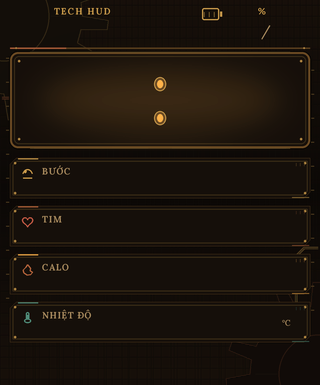
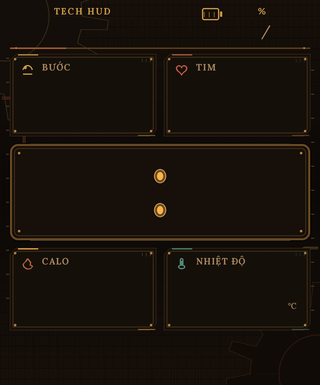
feat: đưa đồng hồ vào trung tâm, bố trí nội dung xung quanh
- Đặt khung đồng hồ DSEG7 tại tâm 320x385 (160, 192.5)
- Hai panel BƯỚC/TIM phía trên, hai panel CALO/NHIỆT ĐỘ phía dưới
- Cập nhật quầng sáng, dấu hai chấm và nền theo khung đồng hồ mới
- Thêm validator/test căn giữa và bố cục 2+2 quanh đồng hồ
- Giữ bỏ MỤC TIÊU và hỗ trợ nhiệt độ âm
- Chưa kiểm thử thiết bị thật: release ở kênh pre-release

diff --git a/scripts/generate_assets.py b/scripts/generate_assets.py
@@ -207,7 +207,8 @@ def draw_pipe(draw: ImageDraw.ImageDraw, points: list[tuple[float, float]], colo
 
 
 def draw_clock_frame(draw: ImageDraw.ImageDraw) -> None:
-    x, y, w, h = 10, 52, 300, 96
+    clock = LAYOUT["clock"]
+    x, y, w, h = clock["x"], clock["y"], clock["w"], clock["h"]
     panel = hex_rgb(COLORS["panel"])
     border = hex_rgb(COLORS["brass_dark"])
     brass = hex_rgb(COLORS["brass"])
@@ -285,24 +286,30 @@ def build_background() -> Image.Image:
     draw_clock_frame(draw)
 
     # amber lamp glow inside the clock window
+    clock = LAYOUT["clock"]
     glow, gdraw = new_layer(W, 150)
-    gdraw.ellipse([sc(24), sc(58), sc(W - 24), sc(142)], fill=amber + (40,))
+    gdraw.ellipse(
+        [
+            sc(clock["x"] + 14),
+            sc(clock["y"] + 6),
+            sc(clock["x"] + clock["w"] - 14),
+            sc(clock["y"] + clock["h"] - 6),
+        ],
+        fill=amber + (40,),
+    )
     glow = glow.filter(ImageFilter.GaussianBlur(sc(20)))
     image.alpha_composite(glow)
 
     # brass-rimmed amber colon lenses
-    for cy in (78, 112):
+    colon_x = clock["x"] + clock["w"] // 2
+    for cy in (clock["y"] + 26, clock["y"] + 60):
         draw.ellipse(
-            [sc(154), sc(cy - 1), sc(166), sc(cy + 13)],
+            [sc(colon_x - 6), sc(cy - 1), sc(colon_x + 6), sc(cy + 13)],
             fill=hex_rgb(COLORS["brass_dark"]) + (255,),
             outline=brass + (255,),
             width=sc(1),
         )
-        draw.ellipse([sc(157), sc(cy + 2), sc(163), sc(cy + 10)], fill=amber + (255,))
-
-    # brass rails under the clock
-    draw.line([(sc(34), sc(148)), (sc(148), sc(148))], fill=brass + (120,), width=sc(1))
-    draw.line([(sc(172), sc(148)), (sc(286), sc(148))], fill=brass + (120,), width=sc(1))
+        draw.ellipse([sc(colon_x - 3), sc(cy + 2), sc(colon_x + 3), sc(cy + 10)], fill=amber + (255,))
 
     # panels
     for panel in LAYOUT["panels"]:

diff --git a/scripts/validate_assets.py b/scripts/validate_assets.py
@@ -119,6 +119,24 @@ def main() -> int:
             ):
                 errors.append(f"labels overlap: {first[0]} and {second[0]}")
 
+    # ---- main clock and surrounding content ------------------------------------------
+    clock = layout.get("clock")
+    check(isinstance(clock, dict), "layout has no clock frame")
+    if isinstance(clock, dict):
+        check(abs(clock["x"] + clock["w"] / 2 - W / 2) <= 1, "clock is not horizontally centred")
+        check(abs(clock["y"] + clock["h"] / 2 - H / 2) <= 1, "clock is not vertically centred")
+        time_ids = {"hour_high", "hour_low", "minute_high", "minute_low"}
+        for widget in layout["widgets"]:
+            if widget["id"] not in time_ids:
+                continue
+            check(widget["x"] >= clock["x"], f"{widget['id']} leaves the clock frame on the left")
+            check(widget["y"] >= clock["y"], f"{widget['id']} leaves the clock frame at the top")
+            check(widget["x"] + widget["w"] <= clock["x"] + clock["w"], f"{widget['id']} leaves the clock frame on the right")
+            check(widget["y"] + widget["h"] <= clock["y"] + clock["h"], f"{widget['id']} leaves the clock frame at the bottom")
+        top = [panel for panel in layout["panels"] if panel["y"] + panel["h"] <= clock["y"]]
+        bottom = [panel for panel in layout["panels"] if panel["y"] >= clock["y"] + clock["h"]]
+        check(len(top) == 2 and len(bottom) == 2, "expected two panels above and two below the clock")
+
     # ---- rounded display safety ------------------------------------------------------
     radius = meta["corner_radius"]
     for panel in layout["panels"]:

diff --git a/scripts/package_release.py b/scripts/package_release.py
@@ -106,10 +106,10 @@ def write_notes(target: Path, version: str, prerelease: bool, record: dict, chec
 - Đồng hồ `HH:MM` dùng **DSEG7 Classic Bold** bảy đoạn màu amber trong khung đồng có đinh tán.
 - Nhãn và số liệu dùng **Lora** serif (OFL); Lora có đủ glyph tiếng Việt, DSEG7 chỉ dùng cho chữ số giờ:phút.
 - Các số bảy đoạn `1`/`4` được căn đáy chung với `0`/`8`, không bị lệch dòng.
-- Nền da/gunmetal, bánh răng đồng, ống dẫn và bốn dải panel viền brass.
+- Nền da/gunmetal, bánh răng đồng, ống dẫn; đồng hồ ở trung tâm, hai panel trên và hai panel dưới bao quanh.
 - Bố cục tối giản: bỏ footer tên thiết bị, mã phiên bản, nhãn PIN, đơn vị BPM/KCAL, panel trạng thái và chấm trạng thái trùng.
 - Tên thứ đầy đủ (CHỦ NHẬT … THỨ BẢY), ngày dạng `21/10`.
-- Bốn dải dữ liệu full-width: BƯỚC, TIM, CALO, NHIỆT ĐỘ; vùng số rộng hơn để không tràn.
+- Bốn panel dữ liệu quanh đồng hồ: **BƯỚC, TIM** phía trên; **CALO, NHIỆT ĐỘ** phía dưới; vùng số rộng hơn để không tràn.
 - Nhiệt độ 3 chữ số, hỗ trợ giá trị âm (`-5`, `-10`, `-20`); đơn vị `°C` canh giữa theo chiều dọc với giá trị.
 - Bỏ hoàn toàn vòng MỤC TIÊU, giá trị phần trăm và source `1021`; không còn cụm bánh răng/thanh đế phía dưới.
 - Toàn bộ nội dung nằm trong vùng an toàn của màn hình bo góc bán kính 82 px; không đặt chữ/số sát bốn góc.

diff --git a/tests/test_layout.py b/tests/test_layout.py
@@ -112,6 +112,28 @@ def test_goal_section_is_removed():
     assert "1021" not in {widget["source"] for widget in LAYOUT["widgets"]}
 
 
+def test_clock_is_centered_and_time_widgets_are_inside_it():
+    clock = LAYOUT["clock"]
+    assert abs(clock["x"] + clock["w"] / 2 - 160) <= 1
+    assert abs(clock["y"] + clock["h"] / 2 - 192.5) <= 1
+    time_ids = {"hour_high", "hour_low", "minute_high", "minute_low"}
+    for widget in LAYOUT["widgets"]:
+        if widget["id"] not in time_ids:
+            continue
+        assert widget["x"] >= clock["x"]
+        assert widget["y"] >= clock["y"]
+        assert widget["x"] + widget["w"] <= clock["x"] + clock["w"]
+        assert widget["y"] + widget["h"] <= clock["y"] + clock["h"]
+
+
+def test_two_panels_above_and_two_below_clock():
+    clock = LAYOUT["clock"]
+    top = [panel for panel in LAYOUT["panels"] if panel["y"] + panel["h"] <= clock["y"]]
+    bottom = [panel for panel in LAYOUT["panels"] if panel["y"] >= clock["y"] + clock["h"]]
+    assert {panel["id"] for panel in top} == {"steps", "heart"}
+    assert {panel["id"] for panel in bottom} == {"calories", "temp"}
+
+
 def test_content_fits_rounded_display():
     meta = LAYOUT["meta"]
     width, height = meta["canvas"]["w"], meta["canvas"]["h"]

diff --git a/README.md b/README.md
@@ -13,7 +13,7 @@ Mặt đồng hồ tuỳ chỉnh phong cách **steampunk / brass**, giao diện 
 Dự án tạo ra một mặt đồng hồ số thực thụ bằng compiler Gen2, không phải mockup:
 
 - Đồng hồ số `HH:MM` dùng **DSEG7 Classic Bold** bảy đoạn, màu amber, đặt trong khung đồng (brass) có đinh tán.
-- Bố cục steampunk: nền da/gunmetal, bánh răng đồng, ống dẫn và bốn dải panel viền brass.
+- Bố cục steampunk: nền da/gunmetal, bánh răng đồng, ống dẫn; đồng hồ ở trung tâm, hai panel trên và hai panel dưới bao quanh.
 - Nhãn và số liệu dùng **Lora** (serif, OFL) có đủ dấu tiếng Việt; số giờ:phút dùng DSEG7.
 - Bố cục tối giản: chỉ giữ dữ liệu cần thiết, không footer tên máy, không mã phiên bản, không nhãn đơn vị lặp, không panel trạng thái.
 - Nội dung được căn vào vùng an toàn của màn hình bo góc bán kính **82 px**; không đặt chữ/số sát bốn góc.
@@ -57,7 +57,7 @@ Dự án tạo ra một mặt đồng hồ số thực thụ bằng compiler Gen
 
 ### Vì sao không có ô KM?
 
-Danh sách data source cho `redmi_watch_5_active` trong Mi Create **không có** nguồn quãng đường. Định dạng này cũng không cho phép tính toán trên thiết bị. Dự án **không** hiển thị KM giả và không suy ra quãng đường từ số bước. Bố cục dùng bốn dải panel: **BƯỚC, TIM, CALO, NHIỆT ĐỘ**.
+Danh sách data source cho `redmi_watch_5_active` trong Mi Create **không có** nguồn quãng đường. Định dạng này cũng không cho phép tính toán trên thiết bị. Dự án **không** hiển thị KM giả và không suy ra quãng đường từ số bước. Bố cục đặt đồng hồ ở trung tâm, với bốn panel **BƯỚC, TIM, CALO, NHIỆT ĐỘ** bao quanh.
 
 ### Nguồn dữ liệu thực tế
 
@@ -123,7 +123,7 @@ python3 -m pytest -q
 ### Chỉ tạo preview và source package (không cần compiler)
 
 ```bash
-python3 scripts/package_release.py --version v1.1.2
+python3 scripts/package_release.py --version v1.1.3
 ```
 
 Kết quả nằm trong `dist/`. Khi không có compiler, **không** có `tech-hud-vi.bin`; script ghi rõ điều đó trong `BUILD-INFO.txt`.
@@ -193,8 +193,8 @@ Artifact của pull request **không** kèm binary.
 
 ```bash
 # Tag phát hành (pre-release tự động vì chưa test thiết bị)
-git tag v1.1.2
-git push origin v1.1.2
+git tag v1.1.3
+git push origin v1.1.3
 ```
 
 Hoặc **Actions → build-watchface → Run workflow**, nhập tag đã tồn tại và chọn `release=true`.

diff --git a/docs/format-research.md b/docs/format-research.md
@@ -62,7 +62,7 @@ Các ràng buộc này được cài đặt trong `scripts/common.py` (`fit_comp
 - Be Vietnam Pro và Orbitron không còn được dùng để render kể từ v1.1.0.
 - Preview và fprj dùng cùng một bộ bitmap, nên không có sai lệch giữa ảnh xem trước và mặt đồng hồ.
 - Màn hình có bán kính bo góc **82 px**. `validate_assets.py` kiểm tra bốn góc của mọi panel, icon, widget và nhãn nằm trong hình chữ nhật bo góc; preview cũng được mask theo đúng bán kính này.
-- Panel/nhãn trạng thái và bitmap kết nối đã được bỏ từ v1.0.3; vòng MỤC TIÊU, giá trị phần trăm và source `1021` đã được bỏ từ v1.1.1. Bốn panel dữ liệu được xếp thành bốn dải brass full-width; v1.1.2 căn thẳng hàng nội dung và hỗ trợ nhiệt độ âm.
+- Panel/nhãn trạng thái và bitmap kết nối đã được bỏ từ v1.0.3; vòng MỤC TIÊU, giá trị phần trăm và source `1021` đã được bỏ từ v1.1.1. Bốn panel dữ liệu được đặt quanh đồng hồ trung tâm từ v1.1.3; v1.1.2 căn thẳng hàng nội dung và hỗ trợ nhiệt độ âm.
 - Từ v1.0.4, `draw_text()` vẽ từng ký tự bằng anchor `ls` trên một baseline chung (lấy từ cap height của `H`). Trước đó anchor `lt` căn theo đỉnh từng glyph nên chữ có dấu tiếng Việt bị tụt xuống so với chữ không dấu.
 
 ## 5. Dữ liệu

diff --git a/CHANGELOG.md b/CHANGELOG.md
@@ -2,6 +2,20 @@
 
 Mọi thay đổi đáng chú ý được ghi ở đây. Định dạng theo [Semantic Versioning](https://semver.org/lang/vi/).
 
+## [v1.1.3] — 2026-10-22
+
+### Thay đổi
+
+- Đưa khung đồng hồ **DSEG7 vào đúng trung tâm** màn hình 320×385; header thứ/ngày/pin nằm phía trên.
+- Bố trí hai panel **BƯỚC, TIM** phía trên và hai panel **CALO, NHIỆT ĐỘ** phía dưới, bao quanh đồng hồ.
+- Cập nhật nền, quầng sáng và hai thấu kính dấu `:` theo tọa độ khung đồng hồ mới; bỏ thanh ray cũ dưới đồng hồ.
+- Thêm kiểm tra khung đồng hồ căn giữa, widget giờ:phút nằm trong khung và bố cục 2 panel trên + 2 panel dưới.
+- Giữ nguyên việc bỏ **MỤC TIÊU** và hỗ trợ nhiệt độ âm từ các bản trước.
+
+### Giới hạn
+
+- Vẫn là **pre-release** vì chưa kiểm thử trên Redmi Watch 5 Active thật.
+
 ## [v1.1.2] — 2026-10-22
 
 ### Thay đổi

diff --git a/docs/device-test.md b/docs/device-test.md
@@ -15,7 +15,7 @@ Repo chỉ cho phép phát hành **stable** khi `tests/device_verification.json`
    - Pin phần trăm khớp với cài đặt hệ thống.
    - Bước, nhịp tim, calo cập nhật khi vận động.
    - Nhiệt độ hiển thị sau khi đồng bộ thời tiết; thử cả giá trị âm nếu có thể.
-   - Bốn dải `BƯỚC / TIM / CALO / NHIỆT ĐỘ` nằm gọn, không chồng lên nhau.
+   - Bốn panel `BƯỚC / TIM / CALO / NHIỆT ĐỘ` bao quanh đồng hồ, nằm gọn và không chồng lên nhau.
    - Không bị cắt chữ, không tràn panel, không nhấp nháy.
 5. Theo dõi pin ít nhất 24 giờ.
 6. Ghi kết quả vào `tests/device_verification.json`:
